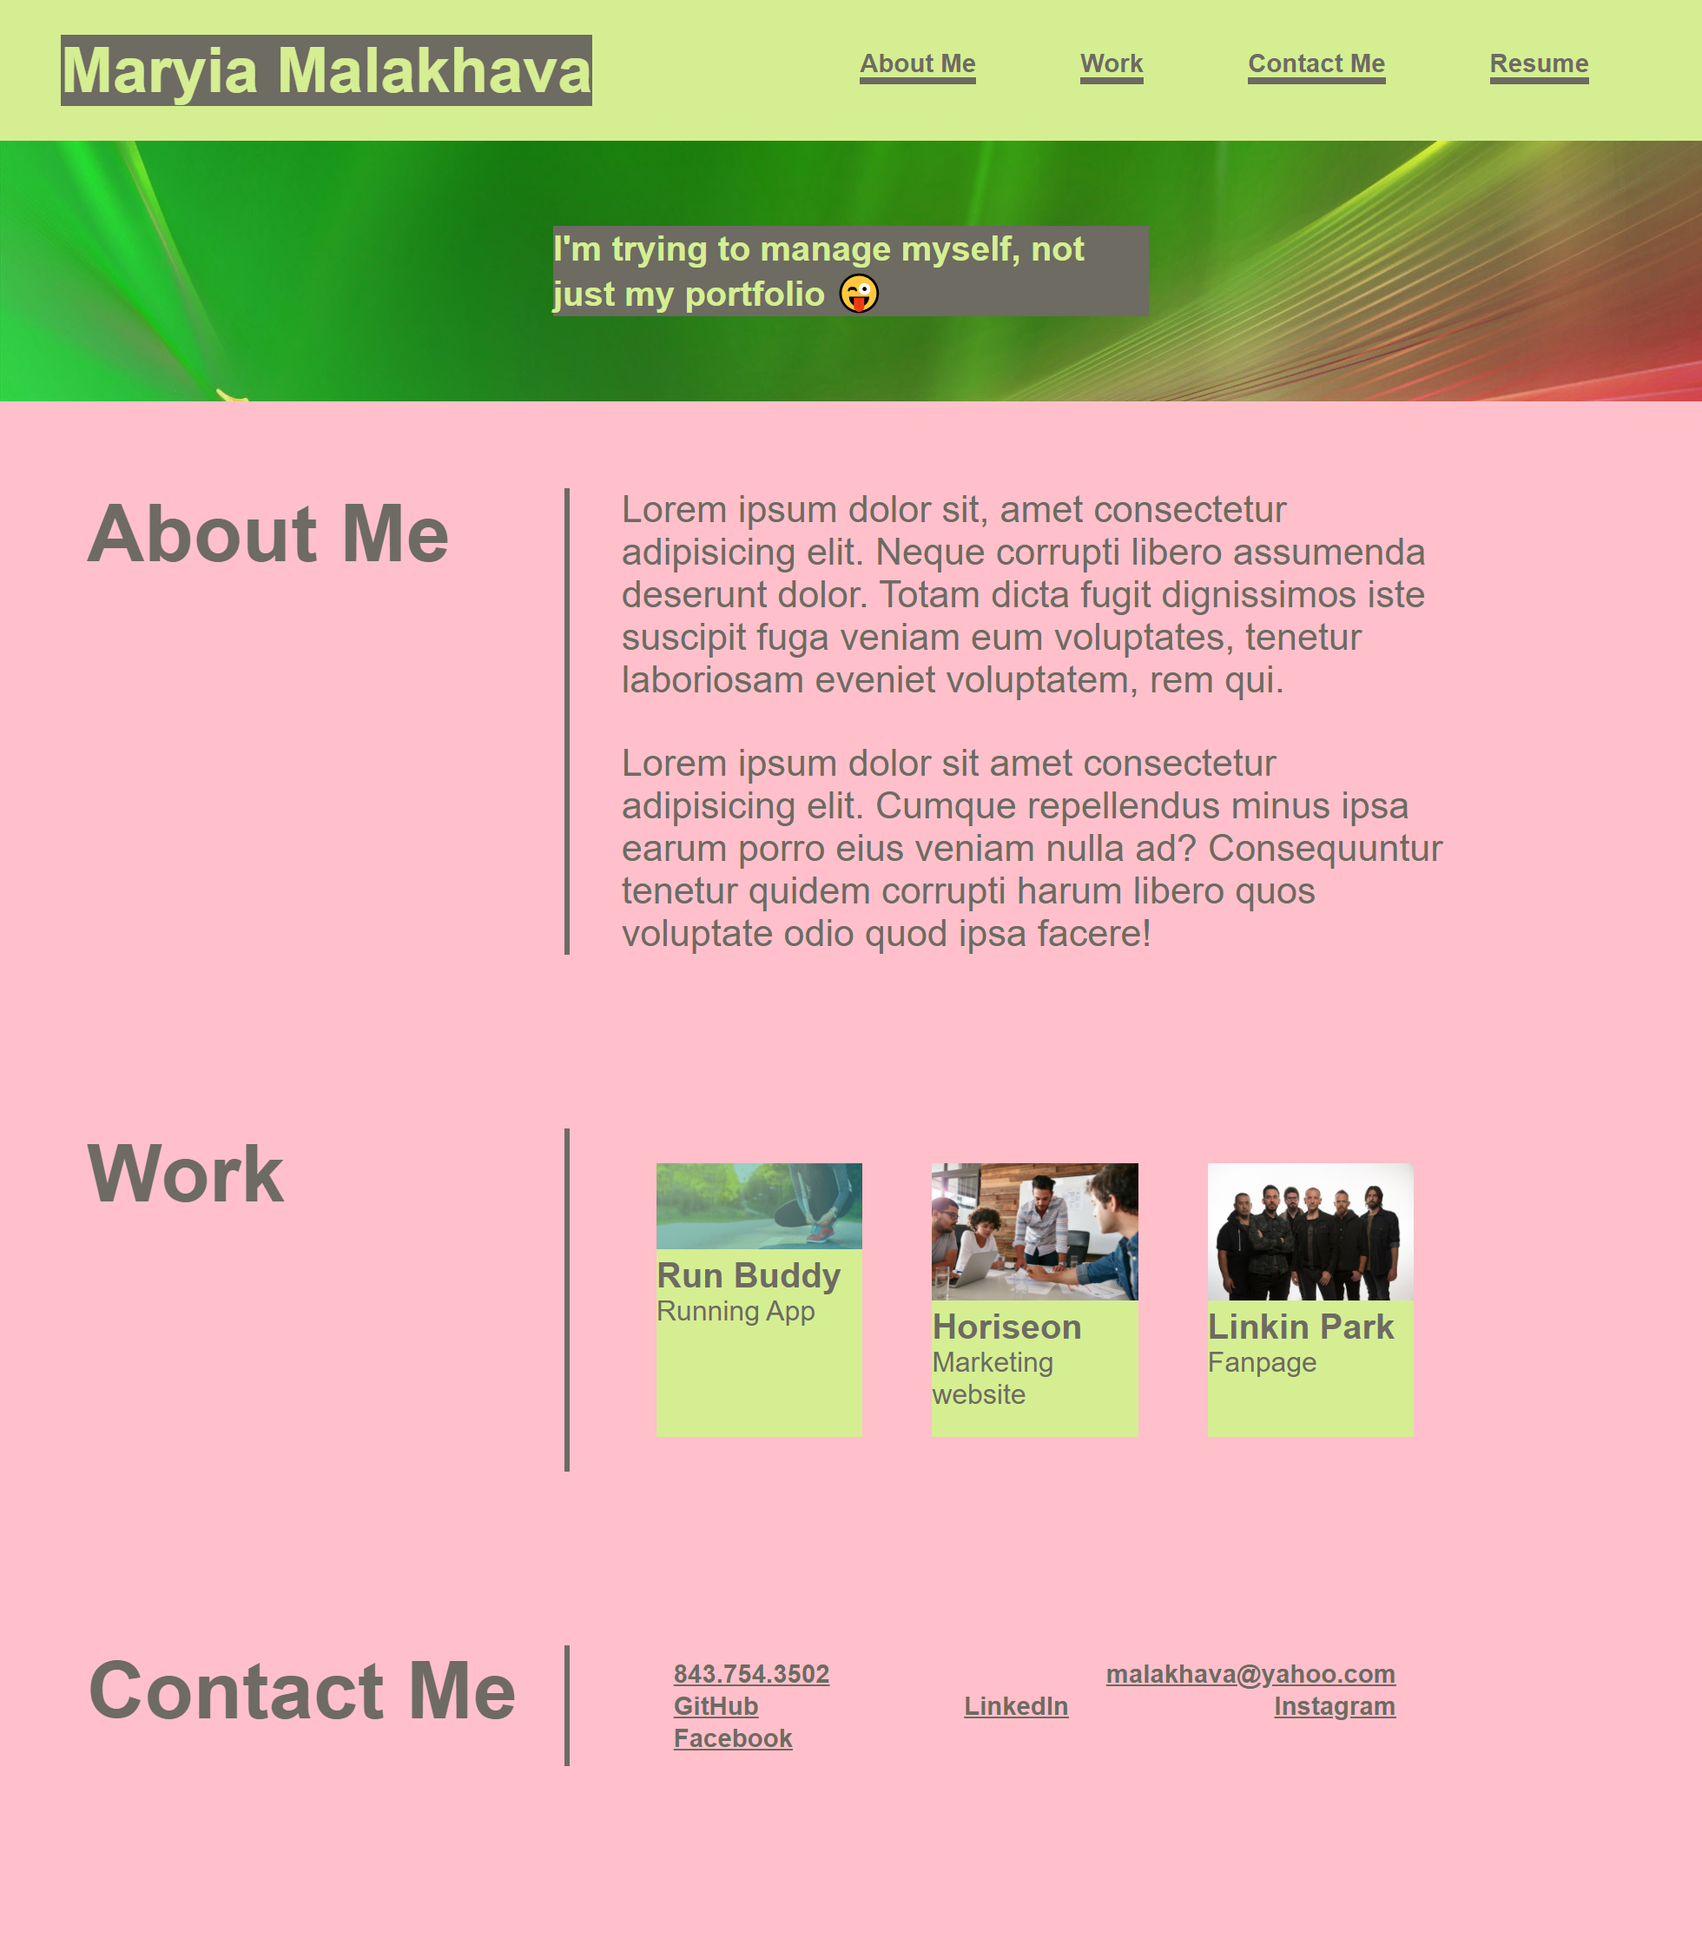
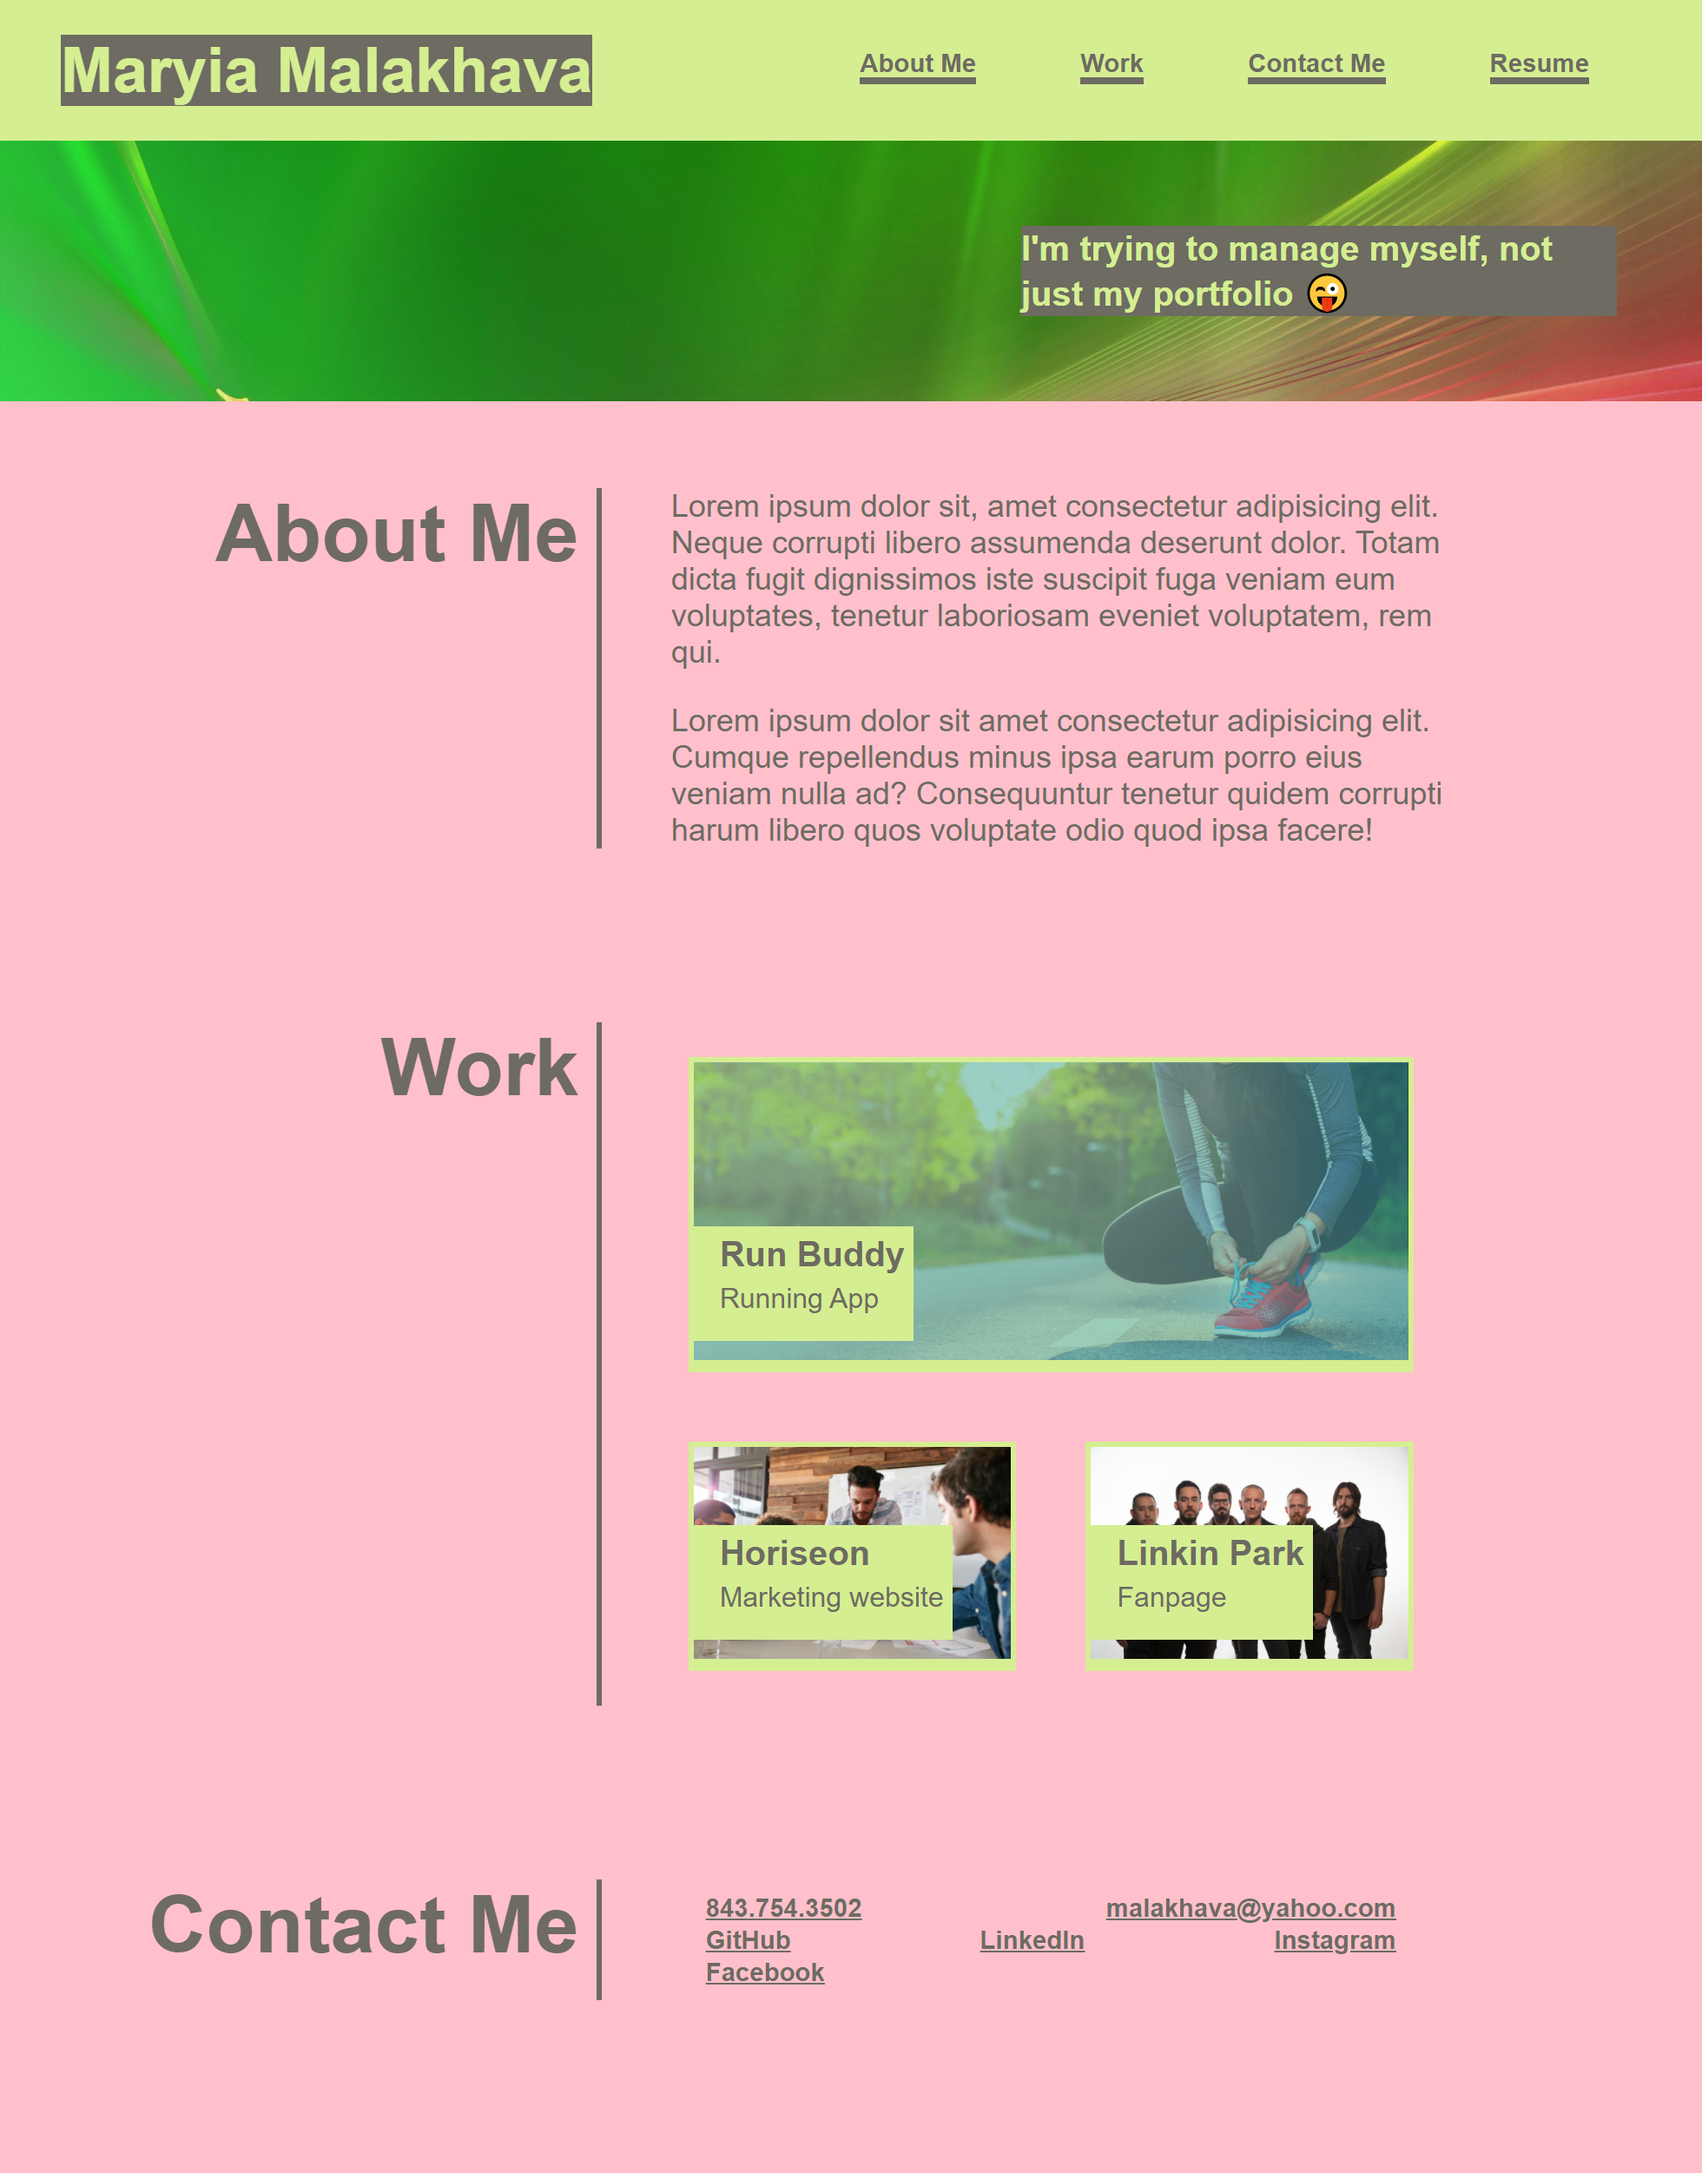
finished styling

diff --git a/index.html b/index.html
@@ -34,8 +34,11 @@
         </header>  
         
         <section class="hero">
-         <h2 class="bottomright">I'm trying to manage myself, not just my portfolio &#128540</h2>
+            
+         <h2>I'm trying to manage myself, not just my portfolio &#128540</h2>
+            
         </section>
+        
 
     </div>         
     <div class="left">
@@ -54,37 +57,47 @@
         
          
      <div class="left-text">
-        <section class="apps">
+        
             <!--first app-->
             <article class="app">
+            <div class="container">
                 <a href=https://malakhavam.github.io/run-buddy><img src="assets/Images/hero-bg.jpg" alt=“Run-Buddy”></a>
-                <section class="app-cont">
+                <div class="text-block">
+                <div class="app-cont">
                     <h3>Run Buddy</h3>
-                </br>
                     <p>Running App</p>
-                   
-                </section>
+                </div>
+                </div>  
+                </div>
             </article>
 
             <!--second app-->
+        <section class="apps">
             <article class="app">
+            <div class="container">
                 <a href="https://malakhavam.github.io/MaryiaM-Horiseon-mod1"><img src="assets/Images/horiseon.jpg" alt="Horiseon"></a>
-                <section class="app-cont">
+                <div class="text-block">
+                <div class="app-cont">
                     <h3>Horiseon</h3>
-                </br>
+                
                     <p>Marketing website</p>
-                    
-                </section>
+                </div> 
+                </div> 
+                </div>
             </article>
 
             <!--third app-->
             <article class="app">
+                <div class="container">
                 <a href="https://malakhavam.github.io/MyFan-Page"><img src="assets/Images/Linkin-Park.jpg" alt="MyFan-Page" ></a>
-                <section class="app-cont">
+                <div class="text-block">
+                <div class="app-cont">
                     <h3>Linkin Park</h3>
-                </br>
+               
                     <p>Fanpage</p>
-                 </section>
+                </div>
+                </div>
+                </div>
             </article>
         </section>
         </div>
@@ -102,10 +115,10 @@
                    
                     <li>
                         
-                        <a href="#phone">843.754.3502</a>
+                        <a href="tel:843.754.3502">843.754.3502</a>
                     </li>
                     <li>
-                        <a href="#email">malakhava@yahoo.com</a>
+                        <a href="mailto:malakhava@yahoo.com">malakhava@yahoo.com</a>
                     </li>
                     <li>
                         <a href="https://github.com/malakhavam">GitHub</a>

diff --git a/assets/css/style.css b/assets/css/style.css
@@ -1,8 +1,7 @@
 * {
     margin: 0;
     padding: 0;
-    box-sizing: border-box;
-    
+        
 }
 body {
     color: #d5ee92;
@@ -36,14 +35,16 @@ body {
 
 .hero {
     background-image: url("../Images/green-pink-background-1.jpg");
+    width: 100%;
     background-size: cover;
     background-position: center;
     display: flex;
-    justify-content: center;
+    justify-content: right;
     flex-wrap: wrap;
-    
+        
     }
 
+    
   .hero h2 {
     width: 35%;
     text-align: left;
@@ -52,9 +53,23 @@ body {
     font-size: 20px;
     line-height: 1.3;
     background-color: #6d6b62;
-            
+                  
     }  
 
+    #about-me {
+        text-align: right;
+        margin-right: 10px;
+    }
+
+    #work {
+        text-align: right;
+        margin-right: 10px;
+    }
+
+    #contact-me {
+        text-align: right;
+        margin-right: 10px;
+    }
          
       
 /* navigation styles */
@@ -92,23 +107,22 @@ body {
         color: #6d6b62;
         font-size: 46px;
         flex: 1 30%;
-        float: left;
+        float: none;
+        margin-left: 10px;
                
     }
 
-    .left div {
-        border-left: 3px solid #6d6b62;
-        padding-left: 30px;
-    }
-
-           
+               
     .left-text {
         flex: 12;
+        border-left: 3px solid #6d6b62;
+        padding-left: 30px;
     }
     
     .left-text p {
         color: #6d6b62;
         font-size: 18px;
+        margin-left: 10px;
     }
 
     .left-text nav ul li a {
@@ -134,22 +148,47 @@ body {
         margin: 20px;
         background: #d5ee92;
         flex: 1;
+        border: solid #d5ee92 3px;
     }
     
     .app img {
         width: 100%;
+        opacity: 1;
     }
-    
+
+    .app img:hover {
+        opacity: 0.3;
+    }
+
+    .container {
+        position: relative;
+    }
       
+      /* Bottom left text */
+      .text-block {
+        position: absolute;
+        bottom: 15px;
+        background-color: #d5ee92;
+        color: #6d6b62;
+        padding: 5px;
+        display: flex;
+        flex-wrap: wrap;
+        justify-content: space-around;
+        
+      }
+
+          
        
     .app-cont h3 {
         font-size: 20px;
+        text-align: left;
+        margin-bottom: 5px;
     }
     
     .app-cont p {
         font-weight: lighter;
         font-size: 16px;
-        margin-bottom: 15px;
+        margin-bottom: 10px;
         text-align: left;
     }
     
